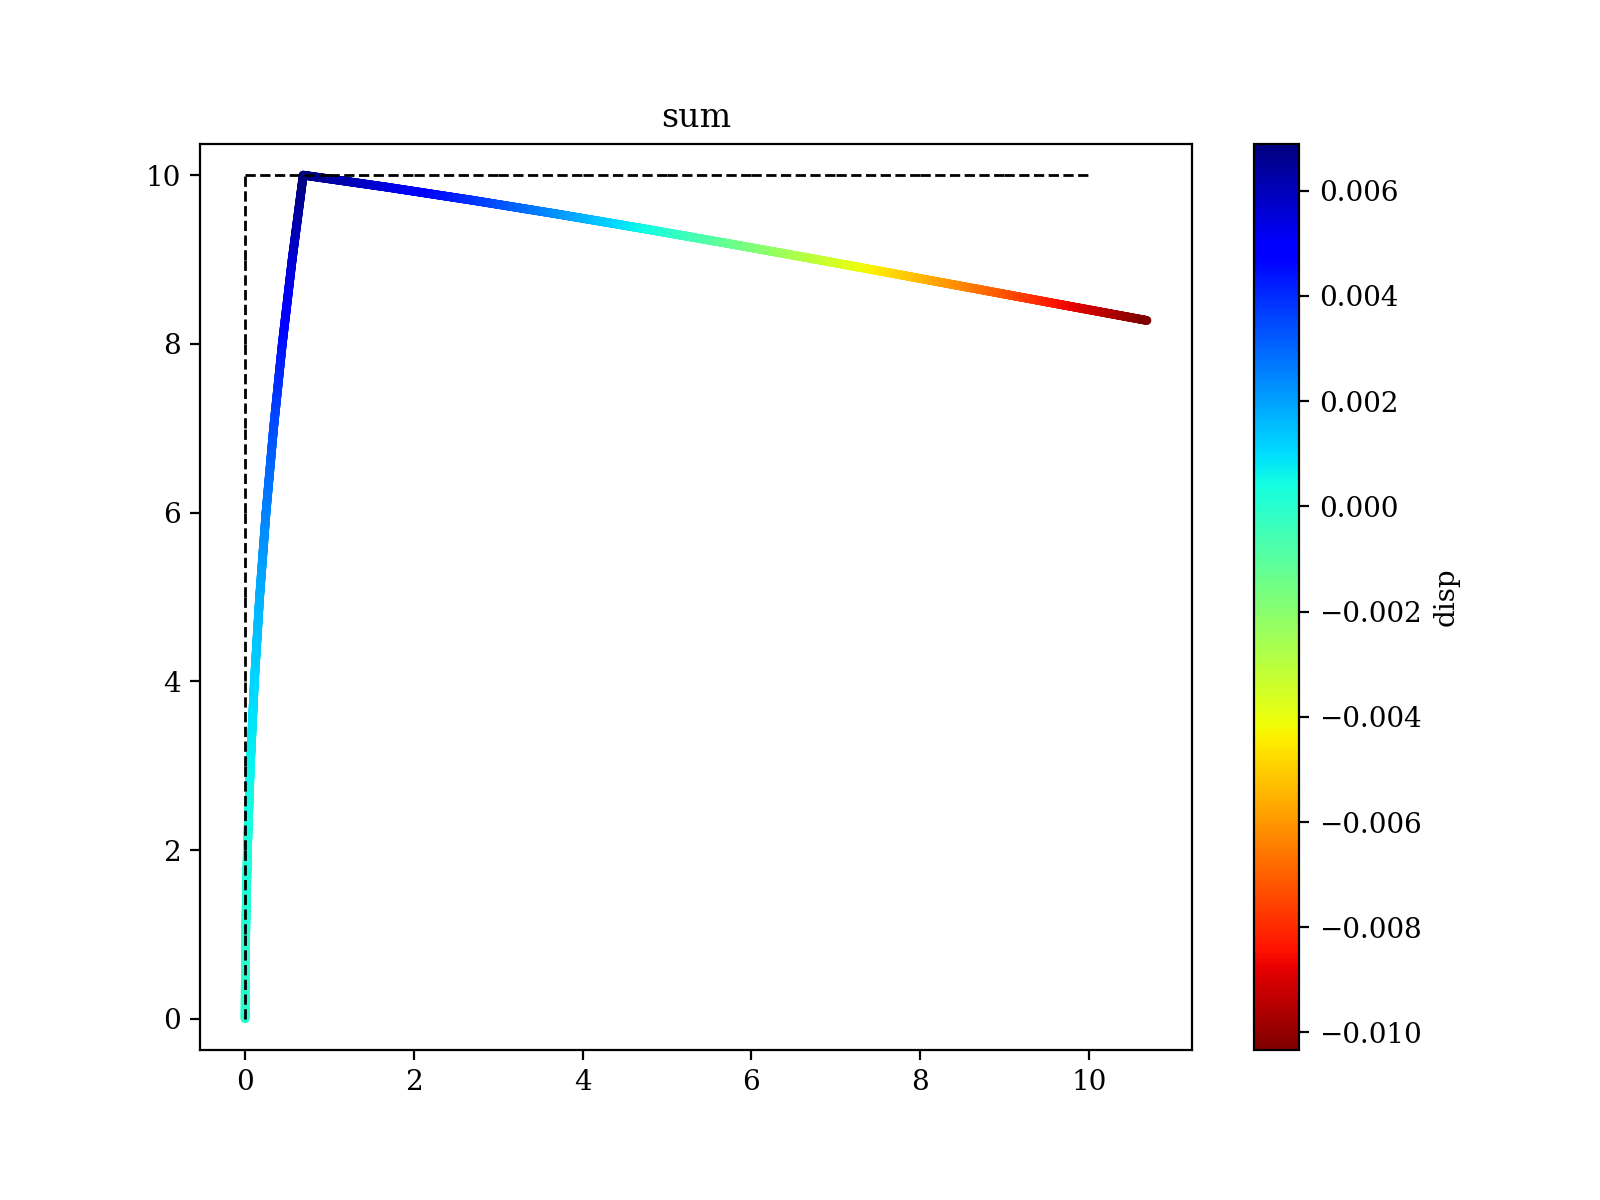
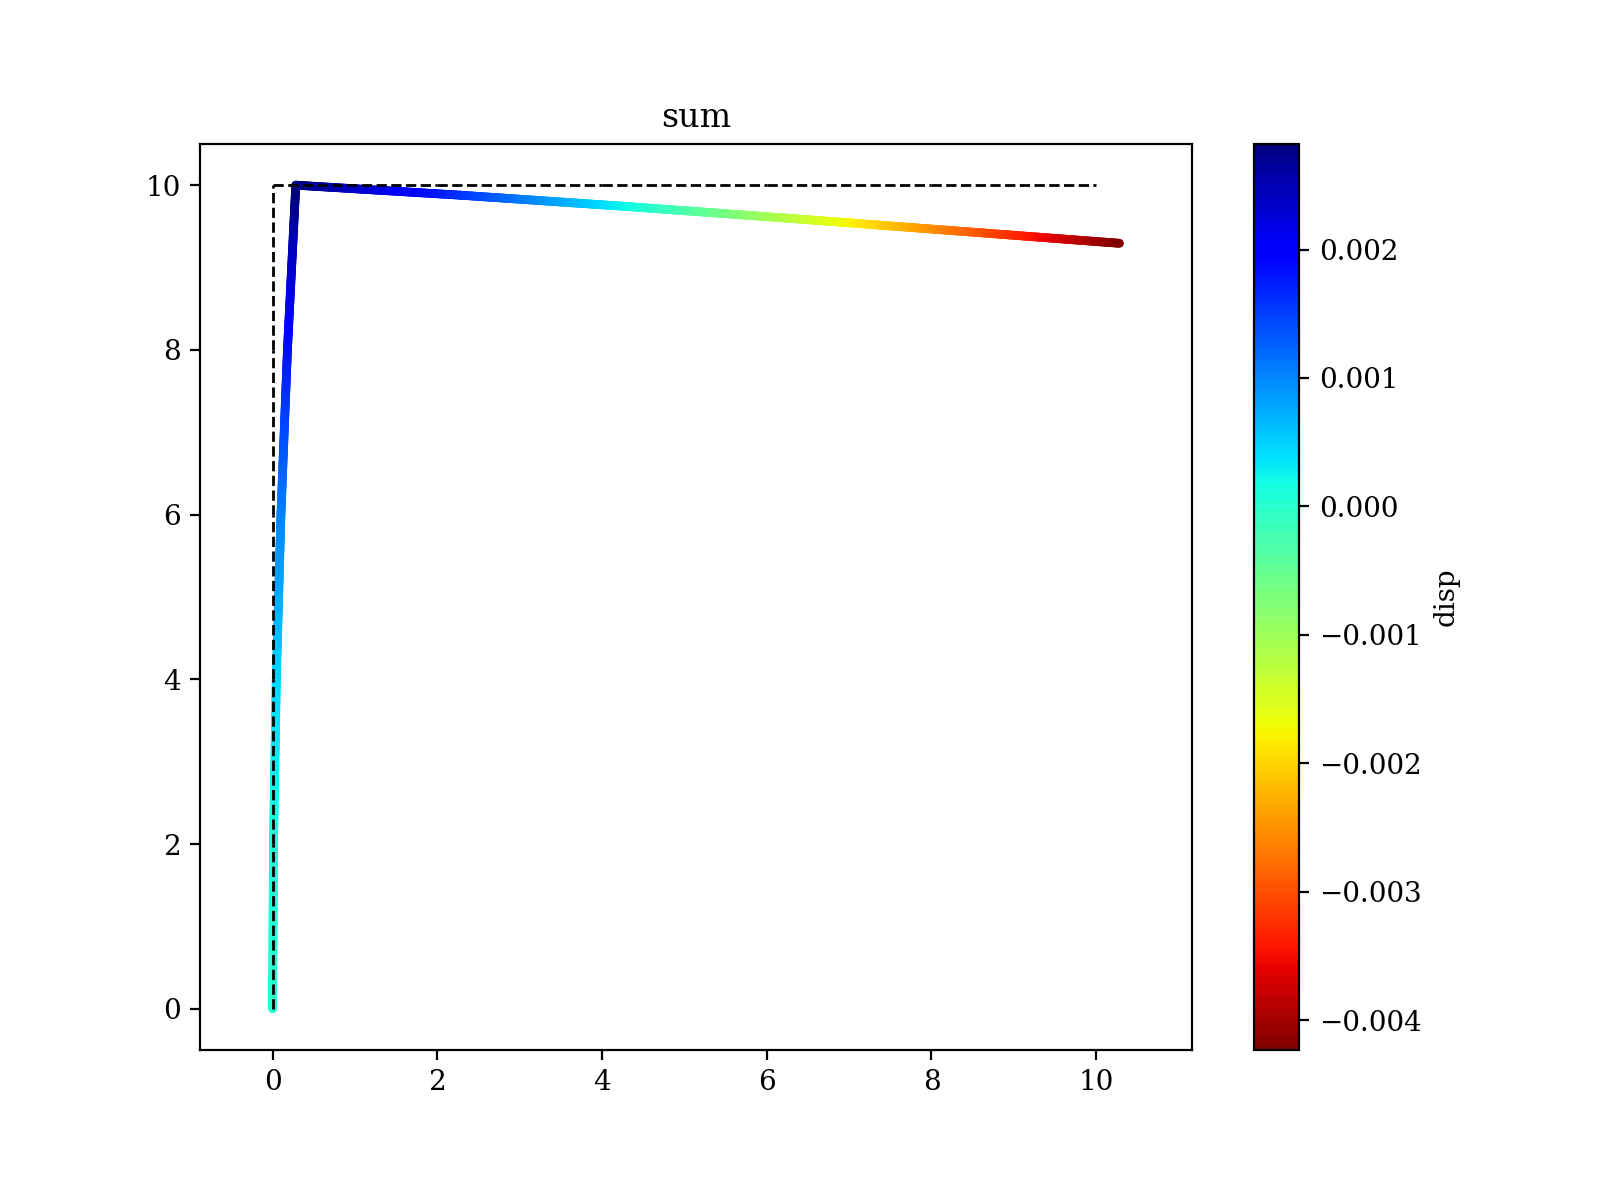
visualisation des contraintes (pb avec Von Mises)

diff --git a/src/Code_FEM_v5.py b/src/Code_FEM_v5.py
@@ -391,7 +391,7 @@ class FEM_Model() :
                                      [ 0, 6*I/L_e , 2*I, 0, -6*I/L_e, 4*I]])
         return K_elem
     
-    def stress(self) : 
+    def stress_2(self) : 
         S = self.mesh.S
         I = self.mesh.Iy
         h = 0.22
@@ -643,17 +643,19 @@ class FEM_Model() :
         k = 5 / 6
         if self.mesh.dim == 2:
             epsilon_x = (U[3*node_j] - U[3*node_i])/L
-            sigma_x = self.E*epsilon_x
-            sigma_fy = self.E * h * (U[3 * node_j + 2] - U[3 * node_i + 2]) / L
-            tau_y = np.array([0])
-            sigma_VM = np.sqrt((sigma_x + sigma_fy)**2 + 3*(tau_y)**2)
+            sigma_x = self.E*epsilon_x /1E6
+            sigma_fy = self.E * h * (U[3 * node_j + 2] - U[3 * node_i + 2]) / L /1E6
+            tau_y = np.array([0])/1E6
+            sigma_VM = np.sqrt((sigma_x + sigma_fy)**2 + 3*(tau_y)**2)/1E6
+            sigma_T = np.sqrt((sigma_x + sigma_fy)**2 + 4*(tau_y)**2)/1E6
             if self.mesh.debug == True :
                 print("déformation (en mm) =", epsilon_x[0]*1E3)
-                print("contrainte normale (en MPa) =",sigma_x[0]/1E6)
-                print("contrainte normale de flexion (en MPa) =", sigma_fy[0] / 1E6)
-                print("contrainte cisaillement de flexion (en MPa) =", tau_y[0]/1E6)
-                print("contrainte Von Mises (en MPa) =", sigma_VM[0]/1E6)
-            return np.array([sigma_x, sigma_fy, tau_y, sigma_VM])
+                print("contrainte normale (en MPa) =",sigma_x[0])
+                print("contrainte normale de flexion (en MPa) =", sigma_fy[0])
+                print("contrainte cisaillement de flexion (en MPa) =", tau_y[0])
+                print("contrainte Von Mises (en MPa) =", sigma_VM[0])
+                print("contrainte Tresca (en MPa) =", sigma_T[0])
+            return np.array([sigma_x, sigma_fy, tau_y, sigma_VM, sigma_T])
         elif self.mesh.dim == 3:
             RR = self.Rot_3D(NL[elem[1]-1])
             rot_max = RR[0:6,0:6]
@@ -679,12 +681,10 @@ class FEM_Model() :
                 print("contrainte Von Mises (en MPa) =", sigma_VM[0]/1E6)
             return np.array([sigma_x, sigma_fy, sigma_fz, tau_x, tau_y, tau_z, sigma_VM])
         
-    def stress(self): #TODO : ne marche pas
+    def stress(self):
         EL = self.mesh.element_list
         for elem in EL:
-            print('element : ', elem)
-            print(self.get_stress(elem))
-            self.S = np.append(self.S,self.get_stress(elem)[1])
+            self.S = np.append(self.S,self.get_stress(elem))
         return self.S
     
     def get_res(self):
@@ -949,6 +949,54 @@ class FEM_Model() :
             plt.savefig(path + 'res_' + dir + '.png', format='png', dpi=200)
         return
     
+    def plot_stress(self, scale = 1e4, r = 100, s = 'sx', pic = False, path = "./"):
+        NL = self.mesh.node_list
+        EL = self.mesh.element_list
+        U = self.U
+        S = self.S
+        x_scatter = []
+        y_scatter = []
+        color = []
+        plt.figure()
+        # maillage non deforme
+        for i in range(len(EL)) :
+            xi,xj = NL[EL[i,0]-1,0],NL[EL[i,1]-1,0]
+            yi,yj = NL[EL[i,0]-1,1],NL[EL[i,1]-1,1]
+            plt.plot([xi,xj],[yi,yj],color = 'k', lw = 1, linestyle = '--')
+        for i in range(len(EL)) :
+            n1, n2 = EL[i,0]-1, EL[i,1]-1
+            if s == 'sx' : 
+                plt.title("tensile stress (sx)")
+                x_scatter.append(np.linspace(NL[n1,0]+U[n1*3]*scale,NL[n2,0]+U[n2*3]*scale,r))
+                y_scatter.append(np.linspace(NL[n1,1]+U[n1*3+1]*scale,NL[n2,1]+U[n2*3+1]*scale,r))
+                color.append(np.ones(r)*S[i*5])
+            elif s == "sf" : 
+                plt.title("bending stress (sf)")
+                x_scatter.append(np.linspace(NL[n1,0]+U[n1*3]*scale,NL[n2,0]+U[n2*3]*scale,r))
+                y_scatter.append(np.linspace(NL[n1,1]+U[n1*3+1]*scale,NL[n2,1]+U[n2*3+1]*scale,r))
+                color.append(np.ones(r)*S[i*5+1])
+            elif s == "ty" : 
+                plt.title("shear stress (ty)")
+                x_scatter.append(np.linspace(NL[n1,0]+U[n1*3]*scale,NL[n2,0]+U[n2*3]*scale,r))
+                y_scatter.append(np.linspace(NL[n1,1]+U[n1*3+1]*scale,NL[n2,1]+U[n2*3+1]*scale,r))
+                color.append(np.ones(r)*S[i*5+2])
+            elif s == "s_vm" : 
+                plt.title("Von Mises Stress (svm)")
+                x_scatter.append(np.linspace(NL[n1,0]+U[n1*3]*scale,NL[n2,0]+U[n2*3]*scale,r))
+                y_scatter.append(np.linspace(NL[n1,1]+U[n1*3+1]*scale,NL[n2,1]+U[n2*3+1]*scale,r))
+                color.append(np.ones(r)*S[i*5+3])
+        #Permet de reverse la barre de couleur si max negatif 
+        if min(U) > 0 :
+            cmap = plt.get_cmap('jet')
+        elif min(U) <= 0 : 
+            cmap = plt.get_cmap('jet_r')
+        plt.scatter(x_scatter,y_scatter,c = color,cmap = cmap,s=10, edgecolor = 'none' )
+        plt.colorbar(label='stress', orientation='vertical') #ScalarMappable(norm = norm_x, cmap = cmap ))
+        plt.axis('equal')
+        if pic : 
+            plt.savefig(path + 'stress_' + s + '.png', format='png', dpi=200)
+        return
+    
     def plot_axis(self,elem):
          print(elem)
          NL = self.mesh.node_list
@@ -1092,6 +1140,29 @@ class FEM_Model() :
                              np.format_float_scientific(self.React[i*6+4][0], precision = 2, exp_digits=2),
                              np.format_float_scientific(self.React[i*6+5][0], precision = 2, exp_digits=2)])
         print(tab)
+        
+    def S_table(self):
+        tab = pt()
+        if self.mesh.dim == 2 :
+            tab.field_names = ["Elem","Sx (MPa)", "Sf (MPa)", "Ty (MPa)", "SVM (MPa)", "Tresca (MPa)"]
+            for i in range(len(self.mesh.element_list)) : 
+                tab.add_row([int(i+1),
+                            np.format_float_scientific(self.S[i*5], precision = 2, exp_digits=2),
+                            np.format_float_scientific(self.S[i*5+1], precision = 2, exp_digits=2),
+                            np.format_float_scientific(self.S[i*5+2], precision = 2, exp_digits=2),
+                            np.format_float_scientific(self.S[i*5+3], precision = 2, exp_digits=2),
+                            np.format_float_scientific(self.S[i*5+4], precision = 2, exp_digits=2)])
+        else :
+            tab.field_names = ["Node","Ux (m)", "Uy (m)", "Uz (m)", "Phix (rad)", "Phiy (rad)", "Phiz (rad)"]
+            for i in range(len(self.mesh.node_list)) : 
+                tab.add_row([int(i+1), 
+                             np.format_float_scientific(self.U[i*6], precision = 2, exp_digits=2),
+                            np.format_float_scientific(self.U[i*6+1], precision = 2, exp_digits=2),
+                            np.format_float_scientific(self.U[i*6+2], precision = 2, exp_digits=2), 
+                             np.format_float_scientific(self.U[i*6+3], precision = 2, exp_digits=2),
+                            np.format_float_scientific(self.U[i*6+4], precision = 2, exp_digits=2),
+                            np.format_float_scientific(self.U[i*6+5], precision = 2, exp_digits=2)])
+        print(tab)
     
     def rapport(self) : 
         doc = DocxTemplate("cctr_template.docx")
@@ -1185,12 +1256,12 @@ def validation_2d() :
     mesh.add_node([0,0])
     mesh.add_node([0,10]) #inches
     mesh.add_node([10,10]) #inches
-    mesh.add_element([1,2], "barre", "b",12, 12, 10)
-    mesh.add_element([2,3], "barre", "b",12, 12, 10)
+    mesh.add_element([1,2], "barre", "b",15, 15, 5)
+    mesh.add_element([2,3], "barre", "b",15, 15, 5)
     #mesh.geom()
     
     f = FEM_Model(mesh)
-    f.apply_distributed_load(10, [11,21])
+    f.apply_distributed_load(10, [6,11])
     f.apply_bc([1,1,1],1)
     #f.apply_bc([0,1,0],3)
     #print(f.get_bc())
@@ -1201,7 +1272,8 @@ def validation_2d() :
     f.plot_disp_f(dir='sum', pic = True)
     #f.plot_disp_f_ex()
     S = f.stress()
-    print("stress :", S)
+    f.plot_stress(scale = 1e2, r = 100, s = 'sf', pic = False, path = "./")
+    f.S_table()
     f.U_table()
     f.R_table()
 
@@ -1258,14 +1330,13 @@ def test_cantilever() :
     f.plot_forces(type = 'dist', pic = False)
     f.solver_frame()
     #f.plot_disp_f_ex(scale=1e2)
-    S = f.stress()
-    print("stress :", S)
-    f.plot_disp_f(scale=1e4,dir='y')
-    f.U_table()
+    f.plot_disp_f(scale=1e4, dir='y')
+    f.plot_stress(scale = 1e4, r = 100, s = 'sf', pic = False, path = "./")
+    f.S_table()
     return 
 
 if __name__ == "__main__" :
-    test_cantilever()
+    validation_2d()
     
 '''
 TODO : 

diff --git a/src/validation_fem.py b/src/validation_fem.py
@@ -47,14 +47,15 @@ def validation_cas1(nb_elem = 2) :
     print('f_max (FEM) = ', np.format_float_scientific(max(Uy, key=abs), precision = 2, exp_digits=2))
     print("erreur max :", err_max)
     ### Contrainte 
-    sx, sf, t, svm = f.get_stress([1,2])
+    S = f.stress()
+    sf = S[1]
     M_max = F*L
     sigma_f_a = M_max/I*h/2*1E-2
     print("contrainte de flexion analytique (MPa) =", np.format_float_scientific(sigma_f_a/1E6, precision = 2, exp_digits=2))
-    print("contrainte de flexion FEM (MPa) = ", np.format_float_scientific(sf/1E6, precision = 2, exp_digits=2))
-    ecart_abs = np.round(abs(sigma_f_a - sf)/1E6,2)
+    print("contrainte de flexion FEM (MPa) = ", np.format_float_scientific(sf, precision = 2, exp_digits=2))
+    ecart_abs = np.round(abs(sigma_f_a/1E6 - sf),2)
     ecart_relatif = np.round(abs(sigma_f_a - sf)/abs(sigma_f_a)*100, 2)
-    print("ecart absolu =", ecart_abs[0], " MPa (ecart_relatif = ", ecart_relatif[0], "%)")
+    print("ecart absolu =", ecart_abs, " MPa (ecart_relatif = ", ecart_relatif, "%)")
     
     fig = plt.figure()
     ax = fig.add_subplot(1, 2, 1)
